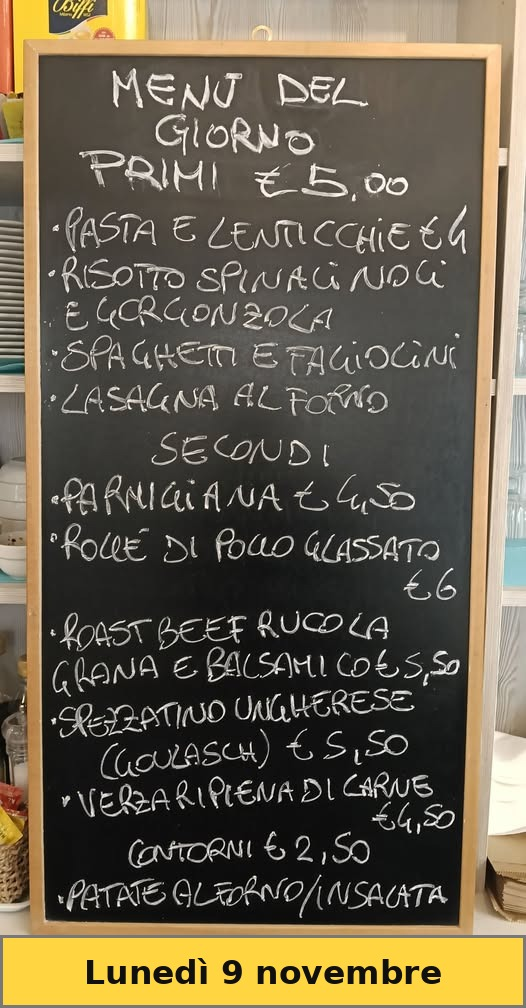
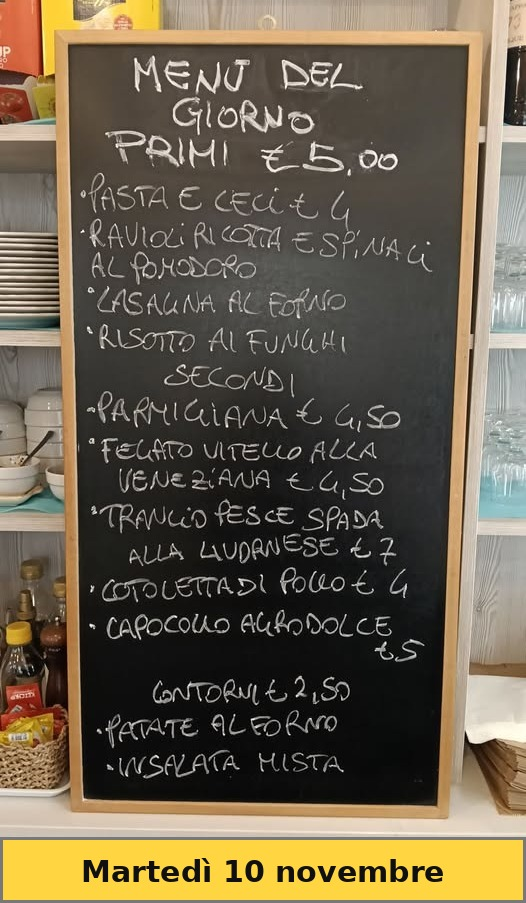
Aggiorna foto rosticcerie

diff --git a/output/rosticceria_ios/Rosticcerie.html b/output/rosticceria_ios/Rosticcerie.html
@@ -538,7 +538,7 @@
     }
   </style>
   <script>
-    const PANELS = [{"name": "Fantasia", "card_label": "Fantasia", "detail_title": "Fantasia", "logo": "../../Logo-Fantasia.jpg?v=1794283814", "phone_display": "080-405.41.39", "phone_tel": "0804054139", "image": "Fantasia.jpg?v=1794283814", "error": "", "updated": false, "updated_label": "Lunedì 9 novembre", "card_reference": "9 nov", "menu_date": "2026-11-09", "url": "https://www.facebook.com/RosticceriaFantasia", "counter_enabled": true, "badge_new": false}, {"name": "Cibària", "card_label": "Cibària", "detail_title": "Cibària", "logo": "../../Logo-Cibaria.jpg?v=1794283814", "phone_display": "080-645.07.99", "phone_tel": "0806450799", "image": "Cibaria.jpg?v=1794283814", "error": "", "updated": false, "updated_label": "Giovedì 5 novembre", "card_reference": "5 nov", "menu_date": "2026-11-05", "url": "https://www.facebook.com/cibaria.asporto", "counter_enabled": true, "badge_new": false}, {"name": "Impastamò", "card_label": "Impastamò", "detail_title": "Impastamò", "logo": "../../Logo-Impastamo.jpg?v=1794283814", "phone_display": "392-536.15.36", "phone_tel": "3925361536", "image": "Impastamo.jpg?v=1794283814", "error": "", "updated": false, "updated_label": "Domenica 8 novembre", "card_reference": "8 nov", "menu_date": "2026-11-08", "url": "https://www.facebook.com/profile.php?id=61560452176728", "counter_enabled": true, "badge_new": false}, {"name": "Le delizie di Michela", "card_label": "Le delizie di Michela", "detail_title": "Le delizie di Michela", "logo": "../../Logo-Michela.jpg?v=1794283814", "phone_display": "080-521.42.33", "phone_tel": "0805214233", "image": "Le_delizie_di_Michela.jpg?v=1794283814", "error": "", "updated": false, "updated_label": "Martedì 3 novembre", "card_reference": "3 nov", "menu_date": "2026-11-03", "url": "https://www.facebook.com/profile.php?id=100045208848338", "counter_enabled": true, "badge_new": false}, {"name": "Aufer", "card_label": "Aufer Gastronomia", "detail_title": "Aufer Gastronomia", "logo": "../../Logo-Aufer.jpg?v=1794283814", "phone_display": "368-38.30.313", "phone_tel": "3683830313", "image": "", "error": "Nessun menu locale importato oggi per Aufer.", "updated": false, "updated_label": "Martedì 10 novembre", "card_reference": "", "menu_date": "", "url": "https://www.instagram.com/aufergastronomia/", "counter_enabled": true, "badge_new": false}, {"name": "Santoro (Castellana)", "card_label": "Santoro (Castellana)", "detail_title": "Santoro (Castellana)", "logo": "../../Logo-Santoro.jpg?v=1794283814", "phone_display": "080-859.83.13", "phone_tel": "0808598313", "image": "Santoro__Castellana.jpg?v=1794283814", "error": "", "updated": false, "updated_label": "Lunedì 9 novembre", "card_reference": "9 nov", "menu_date": "2026-11-09", "url": "https://www.facebook.com/santorogastronomia", "counter_enabled": true, "badge_new": false}, {"name": "Pane & Co", "card_label": "Pane & Co", "detail_title": "Pane & Co", "logo": "../../Logo-pane.jpg?v=1794283814", "phone_display": "080-405.49.00", "phone_tel": "0804054900", "image": "Pane___Co.jpg?v=1794283814", "error": "", "updated": true, "updated_label": "Martedì 10 novembre", "card_reference": "10 nov", "menu_date": "2026-11-10", "url": "https://www.paneeco.it/menu", "counter_enabled": true, "badge_new": false}, {"name": "Bollenti piatti", "card_label": "Bollenti piatti", "detail_title": "Bollenti piatti", "logo": "../../Logo-Bollent.jpg?v=1794283814", "phone_display": "334-318.58.44", "phone_tel": "3343185844", "image": "Bollenti_piatti.jpg?v=1794283814", "error": "", "updated": false, "updated_label": "Venerdì 23 ottobre", "card_reference": "23 ott", "menu_date": "2026-10-23", "url": "https://www.facebook.com/BollentiPiatti", "counter_enabled": true, "badge_new": false}, {"name": "Suggerimenti", "card_label": "Suggerimenti", "detail_title": "Info", "phone_display": "", "phone_tel": "", "image": "Rosticcerie-Home.jpg?v=1794283814", "error": "", "updated": true, "updated_label": "Martedì 10 novembre", "url": "", "counter_enabled": false, "card_border": "#49a95c", "card_bg": "#eaf7ea", "card_name_color": "#111"}];
+    const PANELS = [{"name": "Fantasia", "card_label": "Fantasia", "detail_title": "Fantasia", "logo": "../../Logo-Fantasia.jpg?v=1794307121", "phone_display": "080-405.41.39", "phone_tel": "0804054139", "image": "Fantasia.jpg?v=1794307121", "error": "", "updated": true, "updated_label": "Martedì 10 novembre", "card_reference": "10:33", "menu_date": "2026-11-10", "url": "https://www.facebook.com/RosticceriaFantasia", "counter_enabled": true, "badge_new": false}, {"name": "Cibària", "card_label": "Cibària", "detail_title": "Cibària", "logo": "../../Logo-Cibaria.jpg?v=1794307121", "phone_display": "080-645.07.99", "phone_tel": "0806450799", "image": "Cibaria.jpg?v=1794307121", "error": "", "updated": false, "updated_label": "Giovedì 5 novembre", "card_reference": "5 nov", "menu_date": "2026-11-05", "url": "https://www.facebook.com/cibaria.asporto", "counter_enabled": true, "badge_new": false}, {"name": "Impastamò", "card_label": "Impastamò", "detail_title": "Impastamò", "logo": "../../Logo-Impastamo.jpg?v=1794307121", "phone_display": "392-536.15.36", "phone_tel": "3925361536", "image": "Impastamo.jpg?v=1794307121", "error": "", "updated": true, "updated_label": "Martedì 10 novembre", "card_reference": "07:35", "menu_date": "2026-11-10", "url": "https://www.facebook.com/profile.php?id=61560452176728", "counter_enabled": true, "badge_new": false}, {"name": "Le delizie di Michela", "card_label": "Le delizie di Michela", "detail_title": "Le delizie di Michela", "logo": "../../Logo-Michela.jpg?v=1794307121", "phone_display": "080-521.42.33", "phone_tel": "0805214233", "image": "Le_delizie_di_Michela.jpg?v=1794307121", "error": "", "updated": false, "updated_label": "Martedì 3 novembre", "card_reference": "3 nov", "menu_date": "2026-11-03", "url": "https://www.facebook.com/profile.php?id=100045208848338", "counter_enabled": true, "badge_new": false}, {"name": "Aufer", "card_label": "Aufer Gastronomia", "detail_title": "Aufer Gastronomia", "logo": "../../Logo-Aufer.jpg?v=1794307121", "phone_display": "368-38.30.313", "phone_tel": "3683830313", "image": "", "error": "Nessun menu locale importato oggi per Aufer.", "updated": false, "updated_label": "Martedì 10 novembre", "card_reference": "", "menu_date": "", "url": "https://www.instagram.com/aufergastronomia/", "counter_enabled": true, "badge_new": false}, {"name": "Santoro (Castellana)", "card_label": "Santoro (Castellana)", "detail_title": "Santoro (Castellana)", "logo": "../../Logo-Santoro.jpg?v=1794307121", "phone_display": "080-859.83.13", "phone_tel": "0808598313", "image": "Santoro__Castellana.jpg?v=1794307121", "error": "", "updated": false, "updated_label": "Lunedì 9 novembre", "card_reference": "9 nov", "menu_date": "2026-11-09", "url": "https://www.facebook.com/santorogastronomia", "counter_enabled": true, "badge_new": false}, {"name": "Pane & Co", "card_label": "Pane & Co", "detail_title": "Pane & Co", "logo": "../../Logo-pane.jpg?v=1794307121", "phone_display": "080-405.49.00", "phone_tel": "0804054900", "image": "Pane___Co.jpg?v=1794307121", "error": "", "updated": true, "updated_label": "Martedì 10 novembre", "card_reference": "10 nov", "menu_date": "2026-11-10", "url": "https://www.paneeco.it/menu", "counter_enabled": true, "badge_new": false}, {"name": "Bollenti piatti", "card_label": "Bollenti piatti", "detail_title": "Bollenti piatti", "logo": "../../Logo-Bollent.jpg?v=1794307121", "phone_display": "334-318.58.44", "phone_tel": "3343185844", "image": "Bollenti_piatti.jpg?v=1794307121", "error": "", "updated": false, "updated_label": "Venerdì 23 ottobre", "card_reference": "23 ott", "menu_date": "2026-10-23", "url": "https://www.facebook.com/BollentiPiatti", "counter_enabled": true, "badge_new": false}, {"name": "Suggerimenti", "card_label": "Suggerimenti", "detail_title": "Info", "phone_display": "", "phone_tel": "", "image": "Rosticcerie-Home.jpg?v=1794307121", "error": "", "updated": true, "updated_label": "Martedì 10 novembre", "url": "", "counter_enabled": false, "card_border": "#49a95c", "card_bg": "#eaf7ea", "card_name_color": "#111"}];
     const MAP_ADDRESSES = {"Fantasia": "Via Nicola Losavio 10, Putignano", "Bollenti piatti": "Via Noci 48, Putignano", "Pane & Co": "Viale Federico II 49, Putignano", "Cibària": "Via Estramurale a Levante 11, Putignano", "Le delizie di Michela": "Corso Umberto I 87, Putignano", "Impastamò": "Via Conversano 34, Putignano", "Santoro (Castellana)": "Via Mazzini 28, Castellana Grotte", "Aufer": "Via Estramurale a Mezzogiorno 83, Putignano"};
     const hardReloadToken = new URL(window.location.href).searchParams.get('reload');
     if (hardReloadToken) {
@@ -2270,9 +2270,9 @@
 
   <main id="grid-view">
     
-        <button type="button" class="card" data-pid="0" style="border-color:#ffffff;background-color:#ffffff" onclick="handleCardClick(0)">
+        <button type="button" class="card" data-pid="0" style="border-color:#ffd641;background-color:#fff7de" onclick="handleCardClick(0)">
             <span class="card-name" style="color:#111">Fantasia</span>
-            <span class="card-reference">9 nov</span>
+            <span class="card-reference">10:33</span>
             <span class="card-counter" id="card-counter-0"></span>
         </button>
         
@@ -2282,9 +2282,9 @@
             <span class="card-counter" id="card-counter-1"></span>
         </button>
         
-        <button type="button" class="card" data-pid="2" style="border-color:#ffffff;background-color:#ffffff" onclick="handleCardClick(2)">
+        <button type="button" class="card" data-pid="2" style="border-color:#ffd641;background-color:#fff7de" onclick="handleCardClick(2)">
             <span class="card-name" style="color:#111">Impastamò</span>
-            <span class="card-reference">8 nov</span>
+            <span class="card-reference">07:35</span>
             <span class="card-counter" id="card-counter-2"></span>
         </button>
         

diff --git a/output/rosticceria_ios/index.html b/output/rosticceria_ios/index.html
@@ -538,7 +538,7 @@
     }
   </style>
   <script>
-    const PANELS = [{"name": "Fantasia", "card_label": "Fantasia", "detail_title": "Fantasia", "logo": "../../Logo-Fantasia.jpg?v=1794283814", "phone_display": "080-405.41.39", "phone_tel": "0804054139", "image": "Fantasia.jpg?v=1794283814", "error": "", "updated": false, "updated_label": "Lunedì 9 novembre", "card_reference": "9 nov", "menu_date": "2026-11-09", "url": "https://www.facebook.com/RosticceriaFantasia", "counter_enabled": true, "badge_new": false}, {"name": "Cibària", "card_label": "Cibària", "detail_title": "Cibària", "logo": "../../Logo-Cibaria.jpg?v=1794283814", "phone_display": "080-645.07.99", "phone_tel": "0806450799", "image": "Cibaria.jpg?v=1794283814", "error": "", "updated": false, "updated_label": "Giovedì 5 novembre", "card_reference": "5 nov", "menu_date": "2026-11-05", "url": "https://www.facebook.com/cibaria.asporto", "counter_enabled": true, "badge_new": false}, {"name": "Impastamò", "card_label": "Impastamò", "detail_title": "Impastamò", "logo": "../../Logo-Impastamo.jpg?v=1794283814", "phone_display": "392-536.15.36", "phone_tel": "3925361536", "image": "Impastamo.jpg?v=1794283814", "error": "", "updated": false, "updated_label": "Domenica 8 novembre", "card_reference": "8 nov", "menu_date": "2026-11-08", "url": "https://www.facebook.com/profile.php?id=61560452176728", "counter_enabled": true, "badge_new": false}, {"name": "Le delizie di Michela", "card_label": "Le delizie di Michela", "detail_title": "Le delizie di Michela", "logo": "../../Logo-Michela.jpg?v=1794283814", "phone_display": "080-521.42.33", "phone_tel": "0805214233", "image": "Le_delizie_di_Michela.jpg?v=1794283814", "error": "", "updated": false, "updated_label": "Martedì 3 novembre", "card_reference": "3 nov", "menu_date": "2026-11-03", "url": "https://www.facebook.com/profile.php?id=100045208848338", "counter_enabled": true, "badge_new": false}, {"name": "Aufer", "card_label": "Aufer Gastronomia", "detail_title": "Aufer Gastronomia", "logo": "../../Logo-Aufer.jpg?v=1794283814", "phone_display": "368-38.30.313", "phone_tel": "3683830313", "image": "", "error": "Nessun menu locale importato oggi per Aufer.", "updated": false, "updated_label": "Martedì 10 novembre", "card_reference": "", "menu_date": "", "url": "https://www.instagram.com/aufergastronomia/", "counter_enabled": true, "badge_new": false}, {"name": "Santoro (Castellana)", "card_label": "Santoro (Castellana)", "detail_title": "Santoro (Castellana)", "logo": "../../Logo-Santoro.jpg?v=1794283814", "phone_display": "080-859.83.13", "phone_tel": "0808598313", "image": "Santoro__Castellana.jpg?v=1794283814", "error": "", "updated": false, "updated_label": "Lunedì 9 novembre", "card_reference": "9 nov", "menu_date": "2026-11-09", "url": "https://www.facebook.com/santorogastronomia", "counter_enabled": true, "badge_new": false}, {"name": "Pane & Co", "card_label": "Pane & Co", "detail_title": "Pane & Co", "logo": "../../Logo-pane.jpg?v=1794283814", "phone_display": "080-405.49.00", "phone_tel": "0804054900", "image": "Pane___Co.jpg?v=1794283814", "error": "", "updated": true, "updated_label": "Martedì 10 novembre", "card_reference": "10 nov", "menu_date": "2026-11-10", "url": "https://www.paneeco.it/menu", "counter_enabled": true, "badge_new": false}, {"name": "Bollenti piatti", "card_label": "Bollenti piatti", "detail_title": "Bollenti piatti", "logo": "../../Logo-Bollent.jpg?v=1794283814", "phone_display": "334-318.58.44", "phone_tel": "3343185844", "image": "Bollenti_piatti.jpg?v=1794283814", "error": "", "updated": false, "updated_label": "Venerdì 23 ottobre", "card_reference": "23 ott", "menu_date": "2026-10-23", "url": "https://www.facebook.com/BollentiPiatti", "counter_enabled": true, "badge_new": false}, {"name": "Suggerimenti", "card_label": "Suggerimenti", "detail_title": "Info", "phone_display": "", "phone_tel": "", "image": "Rosticcerie-Home.jpg?v=1794283814", "error": "", "updated": true, "updated_label": "Martedì 10 novembre", "url": "", "counter_enabled": false, "card_border": "#49a95c", "card_bg": "#eaf7ea", "card_name_color": "#111"}];
+    const PANELS = [{"name": "Fantasia", "card_label": "Fantasia", "detail_title": "Fantasia", "logo": "../../Logo-Fantasia.jpg?v=1794307121", "phone_display": "080-405.41.39", "phone_tel": "0804054139", "image": "Fantasia.jpg?v=1794307121", "error": "", "updated": true, "updated_label": "Martedì 10 novembre", "card_reference": "10:33", "menu_date": "2026-11-10", "url": "https://www.facebook.com/RosticceriaFantasia", "counter_enabled": true, "badge_new": false}, {"name": "Cibària", "card_label": "Cibària", "detail_title": "Cibària", "logo": "../../Logo-Cibaria.jpg?v=1794307121", "phone_display": "080-645.07.99", "phone_tel": "0806450799", "image": "Cibaria.jpg?v=1794307121", "error": "", "updated": false, "updated_label": "Giovedì 5 novembre", "card_reference": "5 nov", "menu_date": "2026-11-05", "url": "https://www.facebook.com/cibaria.asporto", "counter_enabled": true, "badge_new": false}, {"name": "Impastamò", "card_label": "Impastamò", "detail_title": "Impastamò", "logo": "../../Logo-Impastamo.jpg?v=1794307121", "phone_display": "392-536.15.36", "phone_tel": "3925361536", "image": "Impastamo.jpg?v=1794307121", "error": "", "updated": true, "updated_label": "Martedì 10 novembre", "card_reference": "07:35", "menu_date": "2026-11-10", "url": "https://www.facebook.com/profile.php?id=61560452176728", "counter_enabled": true, "badge_new": false}, {"name": "Le delizie di Michela", "card_label": "Le delizie di Michela", "detail_title": "Le delizie di Michela", "logo": "../../Logo-Michela.jpg?v=1794307121", "phone_display": "080-521.42.33", "phone_tel": "0805214233", "image": "Le_delizie_di_Michela.jpg?v=1794307121", "error": "", "updated": false, "updated_label": "Martedì 3 novembre", "card_reference": "3 nov", "menu_date": "2026-11-03", "url": "https://www.facebook.com/profile.php?id=100045208848338", "counter_enabled": true, "badge_new": false}, {"name": "Aufer", "card_label": "Aufer Gastronomia", "detail_title": "Aufer Gastronomia", "logo": "../../Logo-Aufer.jpg?v=1794307121", "phone_display": "368-38.30.313", "phone_tel": "3683830313", "image": "", "error": "Nessun menu locale importato oggi per Aufer.", "updated": false, "updated_label": "Martedì 10 novembre", "card_reference": "", "menu_date": "", "url": "https://www.instagram.com/aufergastronomia/", "counter_enabled": true, "badge_new": false}, {"name": "Santoro (Castellana)", "card_label": "Santoro (Castellana)", "detail_title": "Santoro (Castellana)", "logo": "../../Logo-Santoro.jpg?v=1794307121", "phone_display": "080-859.83.13", "phone_tel": "0808598313", "image": "Santoro__Castellana.jpg?v=1794307121", "error": "", "updated": false, "updated_label": "Lunedì 9 novembre", "card_reference": "9 nov", "menu_date": "2026-11-09", "url": "https://www.facebook.com/santorogastronomia", "counter_enabled": true, "badge_new": false}, {"name": "Pane & Co", "card_label": "Pane & Co", "detail_title": "Pane & Co", "logo": "../../Logo-pane.jpg?v=1794307121", "phone_display": "080-405.49.00", "phone_tel": "0804054900", "image": "Pane___Co.jpg?v=1794307121", "error": "", "updated": true, "updated_label": "Martedì 10 novembre", "card_reference": "10 nov", "menu_date": "2026-11-10", "url": "https://www.paneeco.it/menu", "counter_enabled": true, "badge_new": false}, {"name": "Bollenti piatti", "card_label": "Bollenti piatti", "detail_title": "Bollenti piatti", "logo": "../../Logo-Bollent.jpg?v=1794307121", "phone_display": "334-318.58.44", "phone_tel": "3343185844", "image": "Bollenti_piatti.jpg?v=1794307121", "error": "", "updated": false, "updated_label": "Venerdì 23 ottobre", "card_reference": "23 ott", "menu_date": "2026-10-23", "url": "https://www.facebook.com/BollentiPiatti", "counter_enabled": true, "badge_new": false}, {"name": "Suggerimenti", "card_label": "Suggerimenti", "detail_title": "Info", "phone_display": "", "phone_tel": "", "image": "Rosticcerie-Home.jpg?v=1794307121", "error": "", "updated": true, "updated_label": "Martedì 10 novembre", "url": "", "counter_enabled": false, "card_border": "#49a95c", "card_bg": "#eaf7ea", "card_name_color": "#111"}];
     const MAP_ADDRESSES = {"Fantasia": "Via Nicola Losavio 10, Putignano", "Bollenti piatti": "Via Noci 48, Putignano", "Pane & Co": "Viale Federico II 49, Putignano", "Cibària": "Via Estramurale a Levante 11, Putignano", "Le delizie di Michela": "Corso Umberto I 87, Putignano", "Impastamò": "Via Conversano 34, Putignano", "Santoro (Castellana)": "Via Mazzini 28, Castellana Grotte", "Aufer": "Via Estramurale a Mezzogiorno 83, Putignano"};
     const hardReloadToken = new URL(window.location.href).searchParams.get('reload');
     if (hardReloadToken) {
@@ -2270,9 +2270,9 @@
 
   <main id="grid-view">
     
-        <button type="button" class="card" data-pid="0" style="border-color:#ffffff;background-color:#ffffff" onclick="handleCardClick(0)">
+        <button type="button" class="card" data-pid="0" style="border-color:#ffd641;background-color:#fff7de" onclick="handleCardClick(0)">
             <span class="card-name" style="color:#111">Fantasia</span>
-            <span class="card-reference">9 nov</span>
+            <span class="card-reference">10:33</span>
             <span class="card-counter" id="card-counter-0"></span>
         </button>
         
@@ -2282,9 +2282,9 @@
             <span class="card-counter" id="card-counter-1"></span>
         </button>
         
-        <button type="button" class="card" data-pid="2" style="border-color:#ffffff;background-color:#ffffff" onclick="handleCardClick(2)">
+        <button type="button" class="card" data-pid="2" style="border-color:#ffd641;background-color:#fff7de" onclick="handleCardClick(2)">
             <span class="card-name" style="color:#111">Impastamò</span>
-            <span class="card-reference">8 nov</span>
+            <span class="card-reference">07:35</span>
             <span class="card-counter" id="card-counter-2"></span>
         </button>
         
